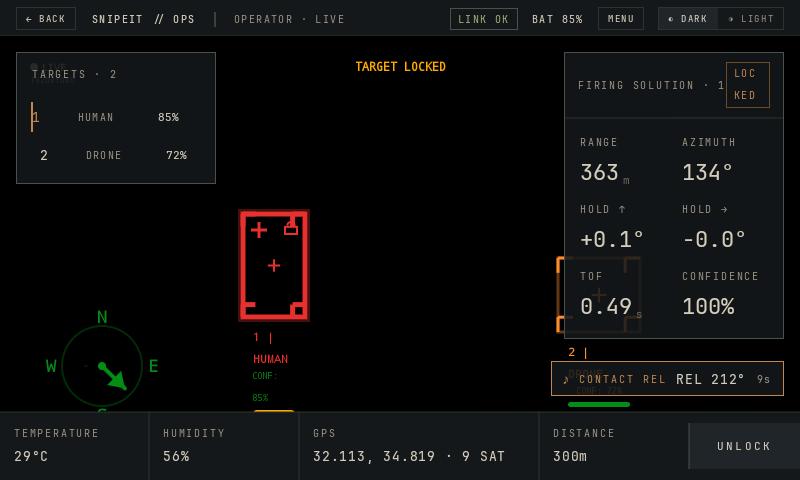
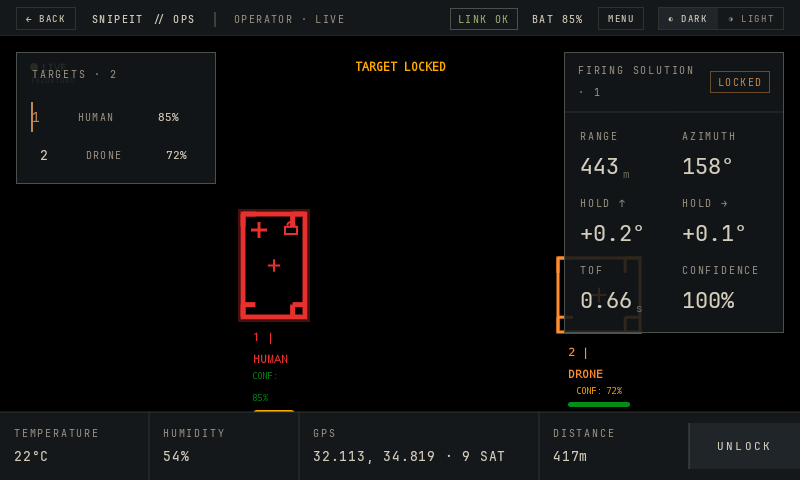
Keep the LOCKED chip whole on narrow screens
The firing card header laid the descriptive label and the status chip out
with SpaceBetween, so both shrank together and the chip's text clipped
below about 700dp. Giving weight to the label alone lets the chip measure
first at its natural width; the label wraps instead, which is the right
trade for a status indicator that must stay readable.

An earlier attempt applied maxLines and softWrap to the target markers as
well. A re-run showed it traded wrapping for clipping and broke the lock
button at 1920x1200, a size that had been clean, so it was reverted.

Adds the B4 screenshots and the compass suppression used while capturing
them.

diff --git a/app/src/main/java/com/example/mysnipeit/ui/dashboard/TacticalVideoPlayer.kt b/app/src/main/java/com/example/mysnipeit/ui/dashboard/TacticalVideoPlayer.kt
@@ -91,6 +91,7 @@ fun TacticalVideoPlayer(
     // Debug toggle for A/B testing on the lossy AP link. Flipping it reloads
     // the stream with the new transport.
     forceTcp: Boolean = true,
+    hideCompass: Boolean = false,
     modifier: Modifier = Modifier
 ) {
     val context = LocalContext.current
@@ -342,7 +343,7 @@ fun TacticalVideoPlayer(
             //   true-north bearing, EL shows the look angle above the
             //   sniper's horizon (positive = uphill, negative = downhill).
             //   This is NOT the hold-over — the hold is on the firing card.
-            if (firingSolution != null && selectedTargetId != null) {
+            if (firingSolution != null && selectedTargetId != null && !hideCompass) {
                 Box(
                     modifier = Modifier
                         .align(Alignment.BottomStart)
@@ -622,9 +623,8 @@ private fun EnhancedTargetMarker(
                         color = markerColor,
                         fontSize = 11.sp,
                         fontFamily = FontFamily.Monospace,
-                        fontWeight = FontWeight.Bold,
-                        maxLines = 1,
-                        softWrap = false
+                        fontWeight = FontWeight.Bold
+
                     )
 
                     Text(
@@ -635,9 +635,8 @@ private fun EnhancedTargetMarker(
                             else                     -> Color(0xFFFF4444)
                         },
                         fontSize = 9.sp,
-                        fontFamily = FontFamily.Monospace,
-                        maxLines = 1,
-                        softWrap = false
+                        fontFamily = FontFamily.Monospace
+
                     )
 
                     Spacer(modifier = Modifier.height(4.dp))

diff --git a/app/src/main/java/com/example/mysnipeit/ui/dashboard/DashboardScreen.kt b/app/src/main/java/com/example/mysnipeit/ui/dashboard/DashboardScreen.kt
@@ -66,6 +66,7 @@ fun DashboardScreen(
     tripodCalibratedAtMs: Long?,
     tripodCalibrationTimeoutMs: Long,
     rtspForceTcp: Boolean = true,
+    isMockMode: Boolean = false,
     onConnectClick: () -> Unit,
     onDisconnectClick: () -> Unit,
     onTargetSelect: (String) -> Unit = {},
@@ -155,6 +156,7 @@ fun DashboardScreen(
                 onTargetLockToggle = onTargetLockToggle,
                 onVideoHealthChanged = { videoHealthy = it },
                 forceTcp = rtspForceTcp,
+                hideCompass = isMockMode,
                 modifier = Modifier.fillMaxSize(),
             )
 
@@ -399,7 +401,11 @@ private fun FiringSolutionCard(
             horizontalArrangement = Arrangement.SpaceBetween,
             verticalAlignment = Alignment.CenterVertically,
         ) {
-            Lbl(text = "FIRING SOLUTION · $targetId")
+            Lbl(
+                text = "FIRING SOLUTION · $targetId",
+                modifier = Modifier.weight(1f, fill = false),
+            )
+            Spacer(Modifier.width(8.dp))
             Chip(text = "LOCKED", tone = ChipTone.Warn)
         }
         Column(modifier = Modifier.padding(16.dp)) {

diff --git a/app/src/main/java/com/example/mysnipeit/MainActivity.kt b/app/src/main/java/com/example/mysnipeit/MainActivity.kt
@@ -204,6 +204,7 @@ fun SniperApp(viewModel: SniperViewModel) {
                 tripodCalibratedAtMs = tripodCalibratedAtMs,
                 tripodCalibrationTimeoutMs = viewModel.tripodCalibrationTimeoutMs,
                 rtspForceTcp = rtspForceTcp,
+                isMockMode = forceMockMode,
                 onTargetSelect = { targetId ->
                     if (targetId.isEmpty()) viewModel.deselectTarget()
                     else viewModel.selectTarget(targetId)
